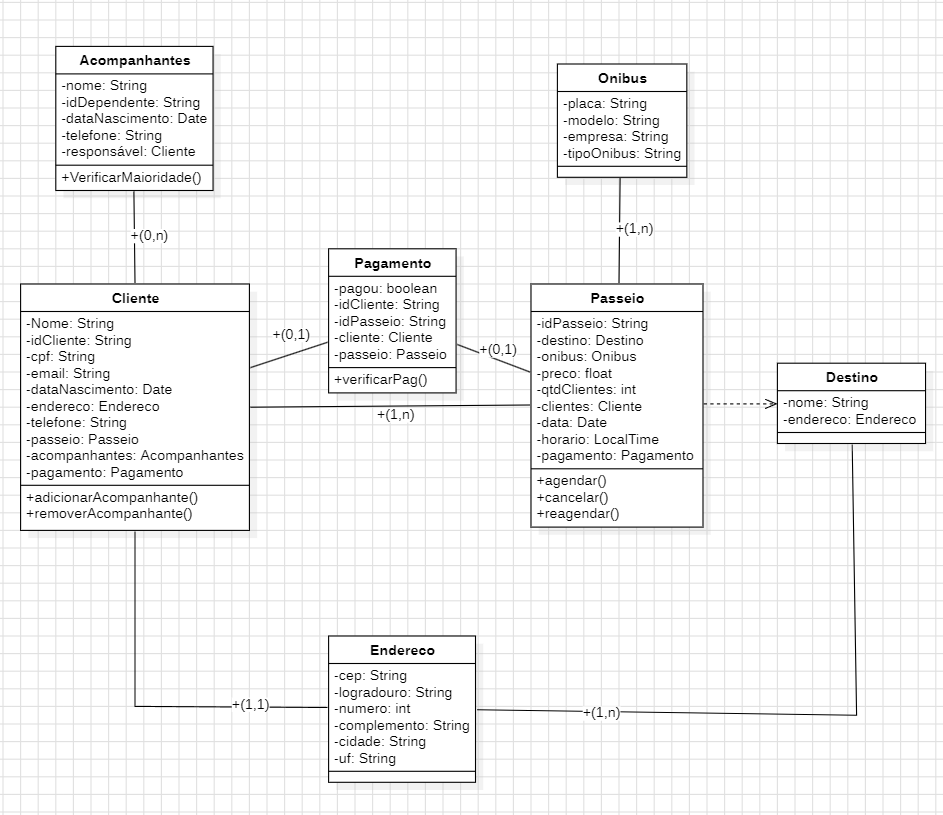
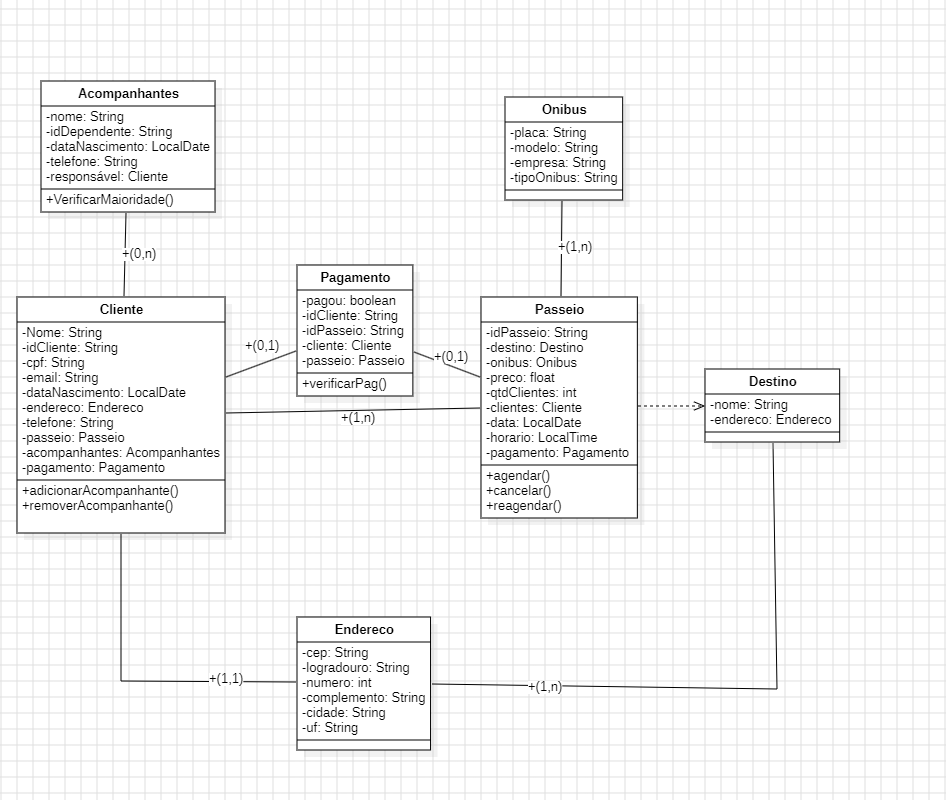
up

diff --git a/Proj/src/proj/Cliente.java b/Proj/src/proj/Cliente.java
@@ -7,11 +7,11 @@ public class Cliente {
     private Date dataNascimento;
     private Endereco endereco;
     private Passeio passeio;
-    private Dependentes dependentes;
+    private Acompanhantes Acompanhantes;
     private Pagamento pagamento;
 
     public Cliente(String nome, String idCliente, String cpf, String email, String telefone, Date dataNascimento,
-            Endereco endereco, Passeio passeio, Dependentes dependentes, Pagamento pagamento) {
+            Endereco endereco, Passeio passeio, Acompanhantes acompanhantes, Pagamento pagamento) {
         this.nome = nome;
         this.idCliente = idCliente;
         this.cpf = cpf;
@@ -20,7 +20,7 @@ public class Cliente {
         this.dataNascimento = dataNascimento;
         this.endereco = endereco;
         this.passeio = passeio;
-        this.dependentes = dependentes;
+        this.Acompanhantes = acompanhantes;
         this.pagamento = pagamento;
     }
 
@@ -90,12 +90,12 @@ public class Cliente {
         this.passeio = passeio;
     }
 
-    public Dependentes getDependentes() {
-        return dependentes;
+    public Acompanhantes getAcompanhantes() {
+        return Acompanhantes;
     }
 
-    public void setDependentes(Dependentes dependentes) {
-        this.dependentes = dependentes;
+    public void setAcompanhantes(Acompanhantes acompanhantes) {
+        this.Acompanhantes = acompanhantes;
     }
 
     public Pagamento getPagamento() {

diff --git a/Proj/src/proj/Acompanhantes.java b/Proj/src/proj/Acompanhantes.java
@@ -3,14 +3,15 @@ package proj;
 import java.util.Date;
 import java.text.SimpleDateFormat;
 
-public class Dependentes {
-    private String nome, idDependente, telefone;
+public class Acompanhantes {
+    private String nome, idAcompanhante, telefone;
     private Date dataNascimento;
     private Cliente responsavel;
 
-    public Dependentes(String nome, String idDependente, String telefone, Date dataNascimento, Cliente responsavel) {
+    public Acompanhantes(String nome, String idAcompanhante, String telefone, Date dataNascimento,
+            Cliente responsavel) {
         this.nome = nome;
-        this.idDependente = idDependente;
+        this.idAcompanhante = idAcompanhante;
         this.telefone = telefone;
         this.dataNascimento = dataNascimento;
         this.responsavel = responsavel;
@@ -26,12 +27,12 @@ public class Dependentes {
         this.nome = nome;
     }
 
-    public String getIdDependente() {
-        return idDependente;
+    public String getIdAcompanhante() {
+        return idAcompanhante;
     }
 
-    public void setIdDependente(String idDependente) {
-        this.idDependente = idDependente;
+    public void setIdAcompanhante(String idAcompanhante) {
+        this.idAcompanhante = idAcompanhante;
     }
 
     public String getTelefone() {

diff --git a/Proj/src/proj/Main.java b/Proj/src/proj/Main.java
@@ -7,7 +7,7 @@ public class Main {
     public static void main(String[] args) {
 
         Date dataN = new Date(2010, 5, 17);
-        Dependentes jorge = new Dependentes(null, null, null, null, null);
+        Acompanhantes jorge = new Acompanhantes(null, null, null, null, null);
 
         jorge.setDataNascimento(dataN);
 
